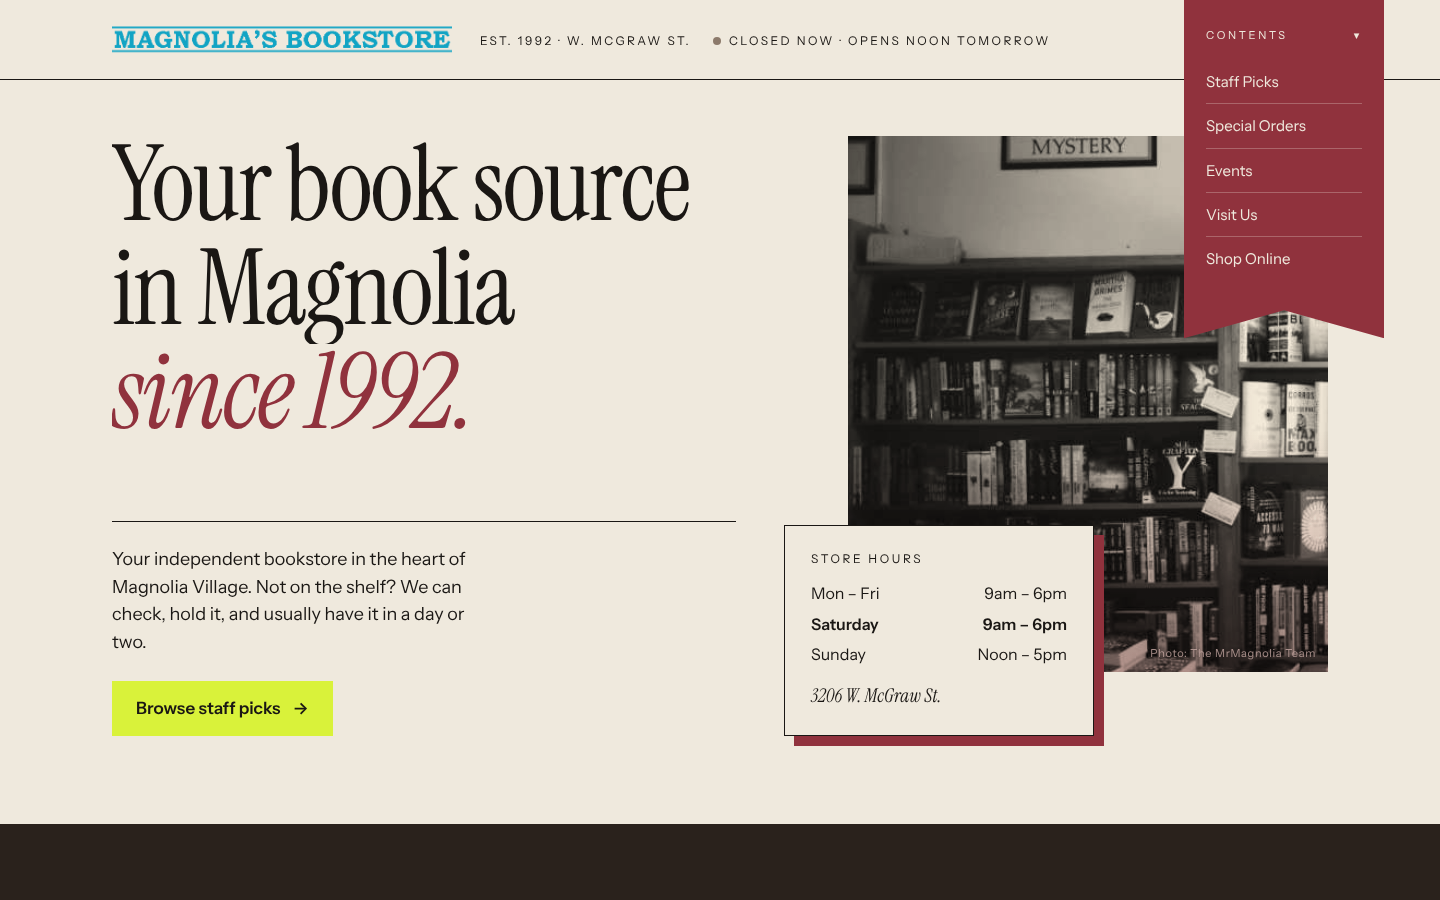
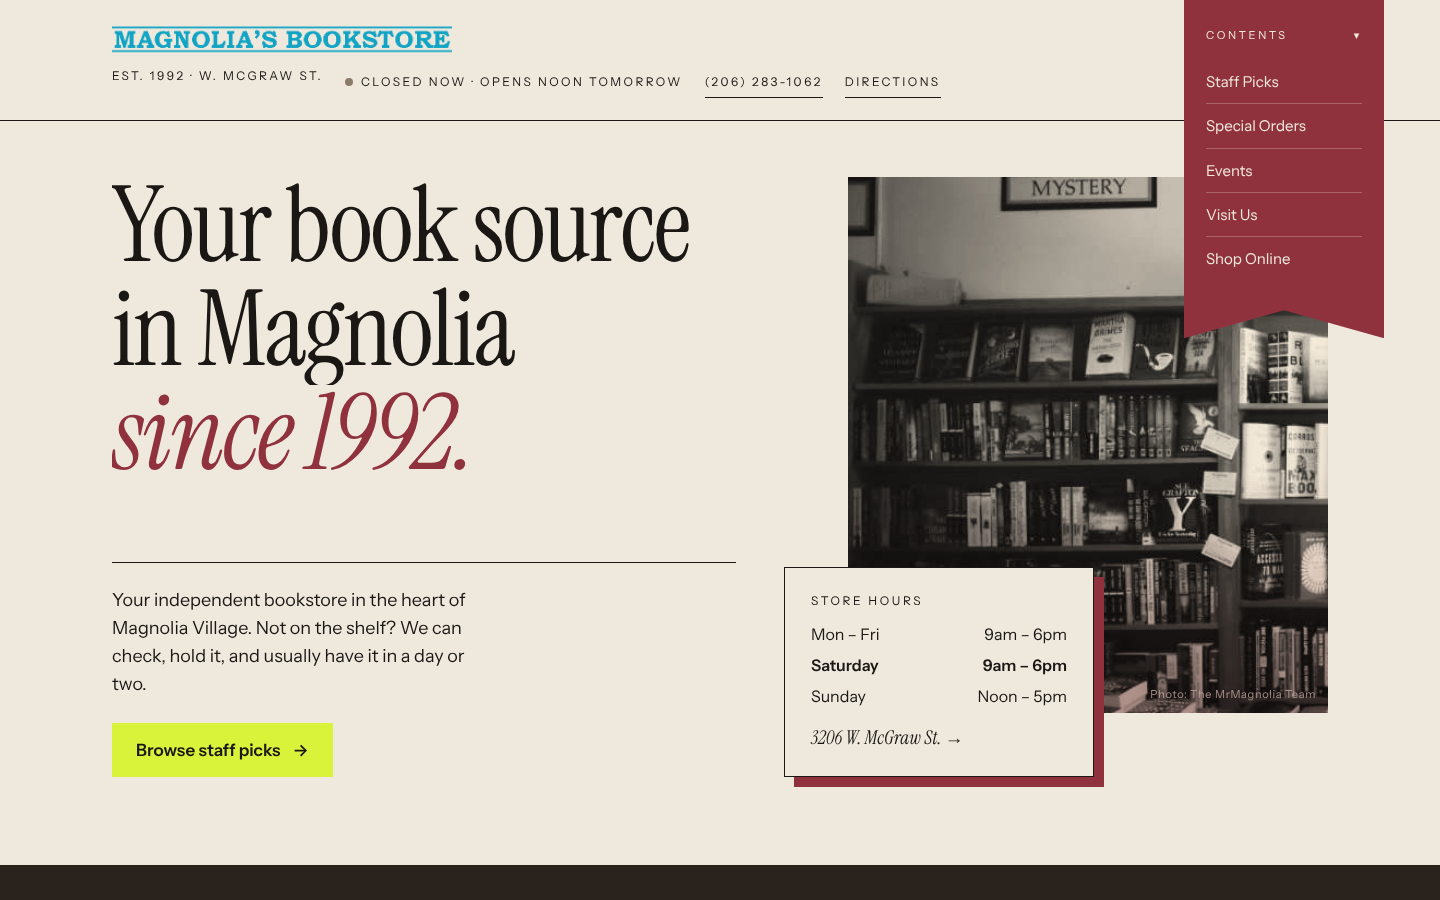
Add call and directions links to Magnolia's header; update screenshot
Claude-Session: https://claude.ai/code/session_017fjSn82CbyRja8j6gmLLHN

diff --git a/magnolias-bookstore/index.html b/magnolias-bookstore/index.html
@@ -63,6 +63,8 @@ img{display:block;max-width:100%}
 .logo{display:block;width:clamp(230px,30vw,340px)}
 .logo img{width:100%;height:auto}
 .meta{display:flex;flex-wrap:wrap;gap:6px 22px;font-size:12px;letter-spacing:.2em;text-transform:uppercase}
+.meta a{text-decoration:none;border-bottom:1px solid currentColor;padding:6px 0}
+.hours-card .addr a{text-decoration:none}
 .open-dot{display:inline-flex;align-items:center;gap:8px}
 .dot{width:8px;height:8px;border-radius:50%;background:#2F7A3A;box-shadow:0 0 0 0 rgba(47,122,58,.6)}
 .dot.closed{background:var(--taupe)}
@@ -208,6 +210,8 @@ footer .small{flex:1 1 100%;font-size:12px;color:#BDB3A3;border-top:1px solid rg
     <div class="meta">
       <span>Est. 1992 · W. McGraw St.</span>
       <span class="open-dot"><span class="dot" id="dot" aria-hidden="true"></span><span id="openText">Mon–Sat 9–6 · Sun 12–5</span></span>
+      <a href="tel:+12062831062">(206) 283-1062</a>
+      <a href="https://maps.google.com/?q=Magnolia%27s+Bookstore+3206+W+McGraw+St+Seattle+WA+98199">Directions</a>
     </div>
   </div>
 </header>
@@ -238,7 +242,7 @@ footer .small{flex:1 1 100%;font-size:12px;color:#BDB3A3;border-top:1px solid rg
           <dt data-days="6">Saturday</dt><dd data-days="6">9am – 6pm</dd>
           <dt data-days="0">Sunday</dt><dd data-days="0">Noon – 5pm</dd>
         </dl>
-        <p class="addr">3206 W. McGraw St.</p>
+        <p class="addr"><a href="https://maps.google.com/?q=Magnolia%27s+Bookstore+3206+W+McGraw+St+Seattle+WA+98199">3206 W. McGraw St. →</a></p>
       </div>
     </div>
   </div>
